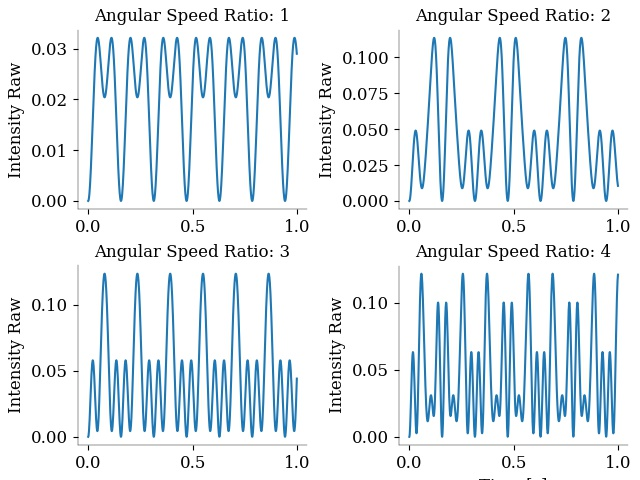
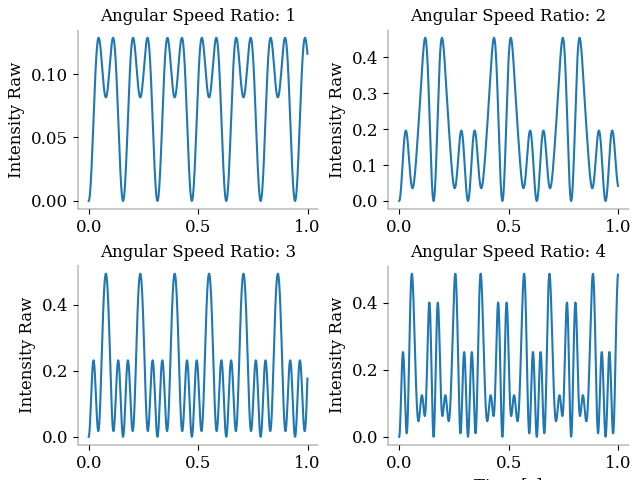
12th Commit symbolic analysis of the setup on math sage.

diff --git a/main.py b/main.py
@@ -41,20 +41,20 @@ print(optimized.x[9])
 plot_mc_fits(optimized.x, leastsq_x[0], t, store_results, harmonics)
 
 
-z = []
-z1 = []
-z2 = []
-
-for i in tqdm(range(0, 30000)):
-
-    z.append(drr_norm_measure_padua(np.array([90, 90])))
-    z2.append(drr_norm_measure(np.array([3, 10, 90, 90, 21])))
-
-fontsize = 10
-plt.hist(z2, bins=300, label="Linear Increments with ratio")
-plt.hist(z, bins=300, label="Padua Interpolation Points")
-plt.xlim(0, 400)
-plt.legend(loc='upper right')
-plt.xlabel("Data", fontsize=fontsize)
-plt.ylabel("Occurrence", fontsize=fontsize)
-plt.show()
+# z = []
+# z1 = []
+# z2 = []
+#
+# for i in tqdm(range(0, 30000)):
+#
+#     z.append(drr_norm_measure_padua(np.array([90, 90])))
+#     z2.append(drr_norm_measure(np.array([3, 10, 90, 90, 21])))
+#
+# fontsize = 10
+# plt.hist(z2, bins=300, label="Linear Increments with ratio")
+# plt.hist(z, bins=300, label="Padua Interpolation Points")
+# plt.xlim(0, 400)
+# plt.legend(loc='upper right')
+# plt.xlabel("Data", fontsize=fontsize)
+# plt.ylabel("Occurrence", fontsize=fontsize)
+# plt.show()

diff --git a/muller_calculations.py b/muller_calculations.py
@@ -42,7 +42,7 @@ class MullerOperators:
                         [0, gwp11, gwp12, gwp13],
                         [0, gwp21, gwp22, gwp23],
                         [0, gwp31, gwp32, gwp33]], np.float64)
-        return gwp*0.5
+        return gwp
 
     def rotation_matrix(self, sign) -> np.ndarray:
 
